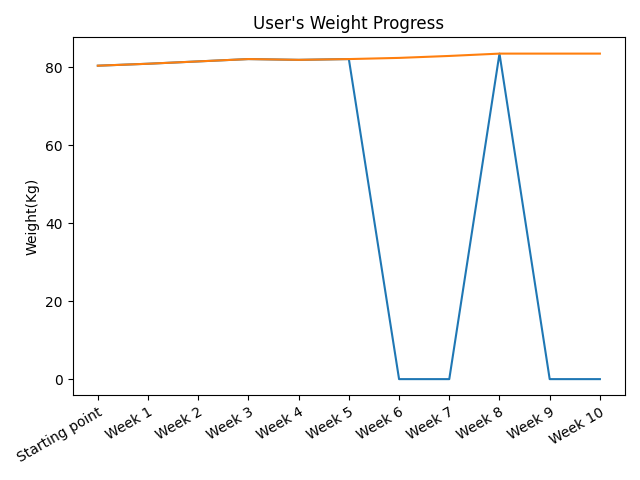
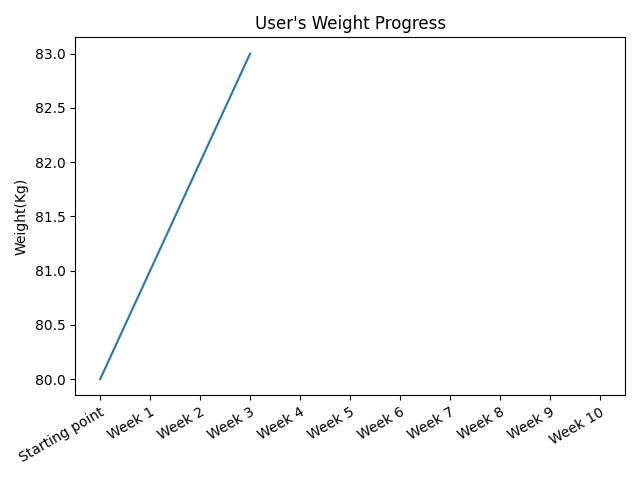
functionality in graph_generator.py to keep the plot full size but make the line stop if the remaining y values are 0 (or not given)

diff --git a/app/utils/graph_generator.py b/app/utils/graph_generator.py
@@ -27,11 +27,18 @@ def generate_graph():
     plt.close()
 
 def generate_weight_graph(weight_data):
-    x_values = list(range(len(weight_data)))
-    y_values = weight_data
+    weeks = list(range(len(weight_data)))
+    weights = weight_data
     name = "User"
 
-    plt.plot(x_values, y_values)
+    # Find the last week with a non-zero weight value
+    last_non_zero_week = max(weeks[:weights.index(0)]) if 0 in weights else weeks[-1]
+
+    # Truncate the data
+    truncated_weeks = weeks[:last_non_zero_week + 1]
+    truncated_weights = weights[:last_non_zero_week + 1]
+
+    plt.plot(truncated_weeks, truncated_weights)
     custom_labels = ['Starting point',
                     'Week 1', 
                     'Week 2', 
@@ -43,7 +50,8 @@ def generate_weight_graph(weight_data):
                     'Week 8',
                     'Week 9', 
                     'Week 10']
-    plt.xticks(x_values, custom_labels, rotation=30, ha='right', rotation_mode='anchor') # tweak this to that the labels fit (45 degrees tilt?)
+    plt.xlim(-0.5, len(weeks) -0.5) # Sets the x-axis limits to ensure it extends to all 11 weeks
+    plt.xticks(weeks, custom_labels, rotation=30, ha='right', rotation_mode='anchor')
     plt.xlabel('')
     plt.ylabel('Weight(Kg)')
     plt.title(f"{name}'s Weight Progress")
@@ -55,5 +63,5 @@ def generate_weight_graph(weight_data):
 
 
 if __name__=="__main__":
-    weight_data = [66.0, 65.0, 65.5, 65.3, 64.8, 64.0, 64.0, 63.5, 63.0, 63.0, 62.0]
+    weight_data = [66.0, 65.0, 65.5, 65.3, 64.8, 64.0, 64.0, 63.5, 63.0, 63.0, 0]
     generate_weight_graph(weight_data)
